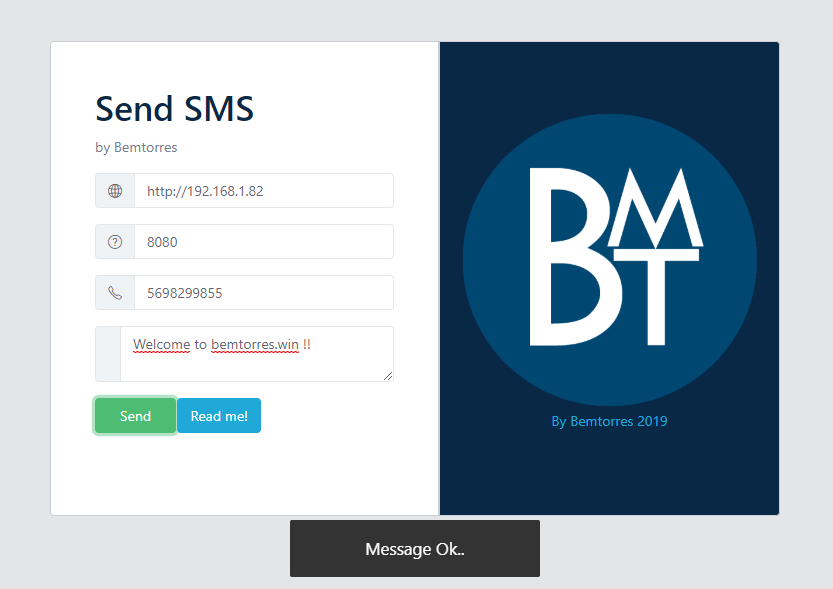
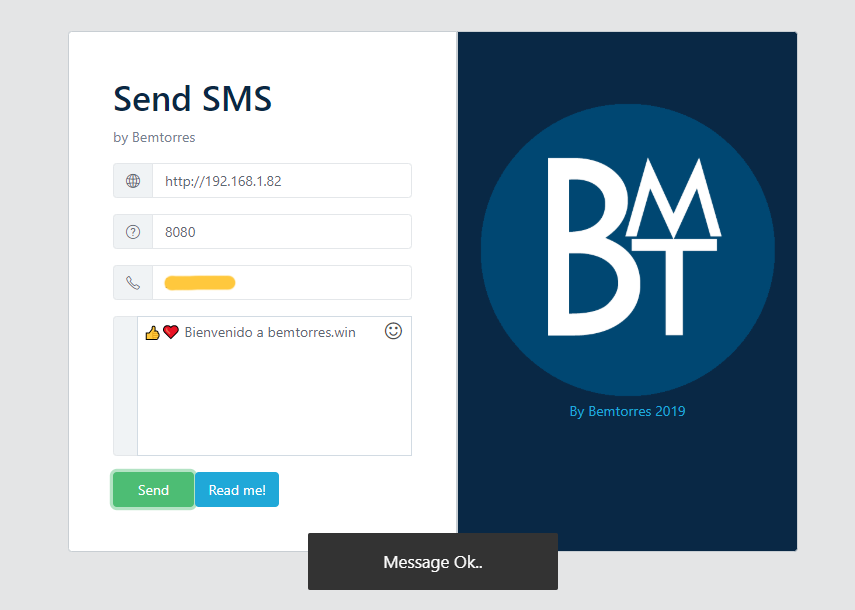
🆕   Versión estable

Changed region(s): [[0.0624, 0.0306, 0.9364, 0.9779], [0.1248, 0.3667, 0.4682, 0.6112]]

diff --git a/src/app.js b/src/app.js
@@ -9,33 +9,37 @@ var port = document.getElementById('port').value;
 var phone = document.getElementById('phone').value;
 var message = document.getElementById('message').value;
 
-var url = 'http://'+ server + ':' + port +'/v1/sms/send/?phone=' + phone + '&message=' + message;
+var url = server + ':' + port +'/v1/sms/send/?phone=' + phone + '&message=' + message;
 
 fetch(url)
-  .then(function(response) {    
-    return response.text();
+  .then(resp => {    
+    return resp.text();
   })
-  .then(function(result) {
+  .then(result => {
     console.log(result);
     if(result=="OK"){
-        console.log("Enviado correctamente");
-        snackbarUp();
-    }else{
-        console.log("Error");
+      console.log("Enviado correctamente");
+        snackbarUp('Message Ok..');
+    }
+    if(result=="500"){
+      console.log("Error en parametros");
+      snackbarUp('Error 500');
     }
   })
   .catch(error =>{
-      console.log(error);
+    console.log("fail :" + error.message);
+    snackbarUp('Fail, wrong data');
   });
-
 }
 
 // Snackbar
-function snackbarUp() {
+function snackbarUp(message) {
     var x = document.getElementById("snackbar");
+    x.innerHTML = message;
     x.className = "show";
     setTimeout(function(){ x.className = x.className.replace("show", ""); }, 3000);
 }
+
 
 // Emoji
 $(function() {

diff --git a/README.md b/README.md
@@ -49,15 +49,16 @@ send-sms-phone/
 └── README.md
 ```
 ### Instrucciones
+* Instalar Extensión Chrome [Allow-Control-Allow-Origin](https://chrome.google.com/webstore/detail/allow-control-allow-origi/nlfbmbojpeacfghkpbjhddihlkkiljbi)
 
 * Instalar en el celular [REST SMS Gateway](ttps://play.google.com/store/apps/details?id=com.perfness.smsgateway.rest&hl=es_CL)
 
-* Conectarse en la misma red
+* Conectarse a la misma red
 
 * Abrir index.html y aplicación
 
 ```
-Server : 192.168.1.102 // IP que tu aplicación indica
+Server : http://192.168.1.102 // IP que tu aplicación indica
 Port   : 8080
 Phone  : xxxxxxx34
 Message: ........
@@ -67,10 +68,8 @@ Message: ........
 
 ## Desmostración
 
-![Example Screenshot](https://github.com/bemtorres/send-sms-phone/blob/master/doc/portada.png?raw=true)
-![Example Screenshot](https://github.com/bemtorres/send-sms-phone/blob/master/doc/portada.png?raw=true)
-![Example Screenshot](https://github.com/bemtorres/send-sms-phone/blob/master/doc/portada.png?raw=true)
-![Example Screenshot](https://github.com/bemtorres/send-sms-phone/blob/master/doc/portada.png?raw=true)
+![send](https://github.com/bemtorres/send-sms-phone/blob/master/doc/sendOk.png?raw=true)
+![phone](https://github.com/bemtorres/send-sms-phone/blob/master/doc/phoneOk.png?raw=true)
 
 
 ### Configuración extra
